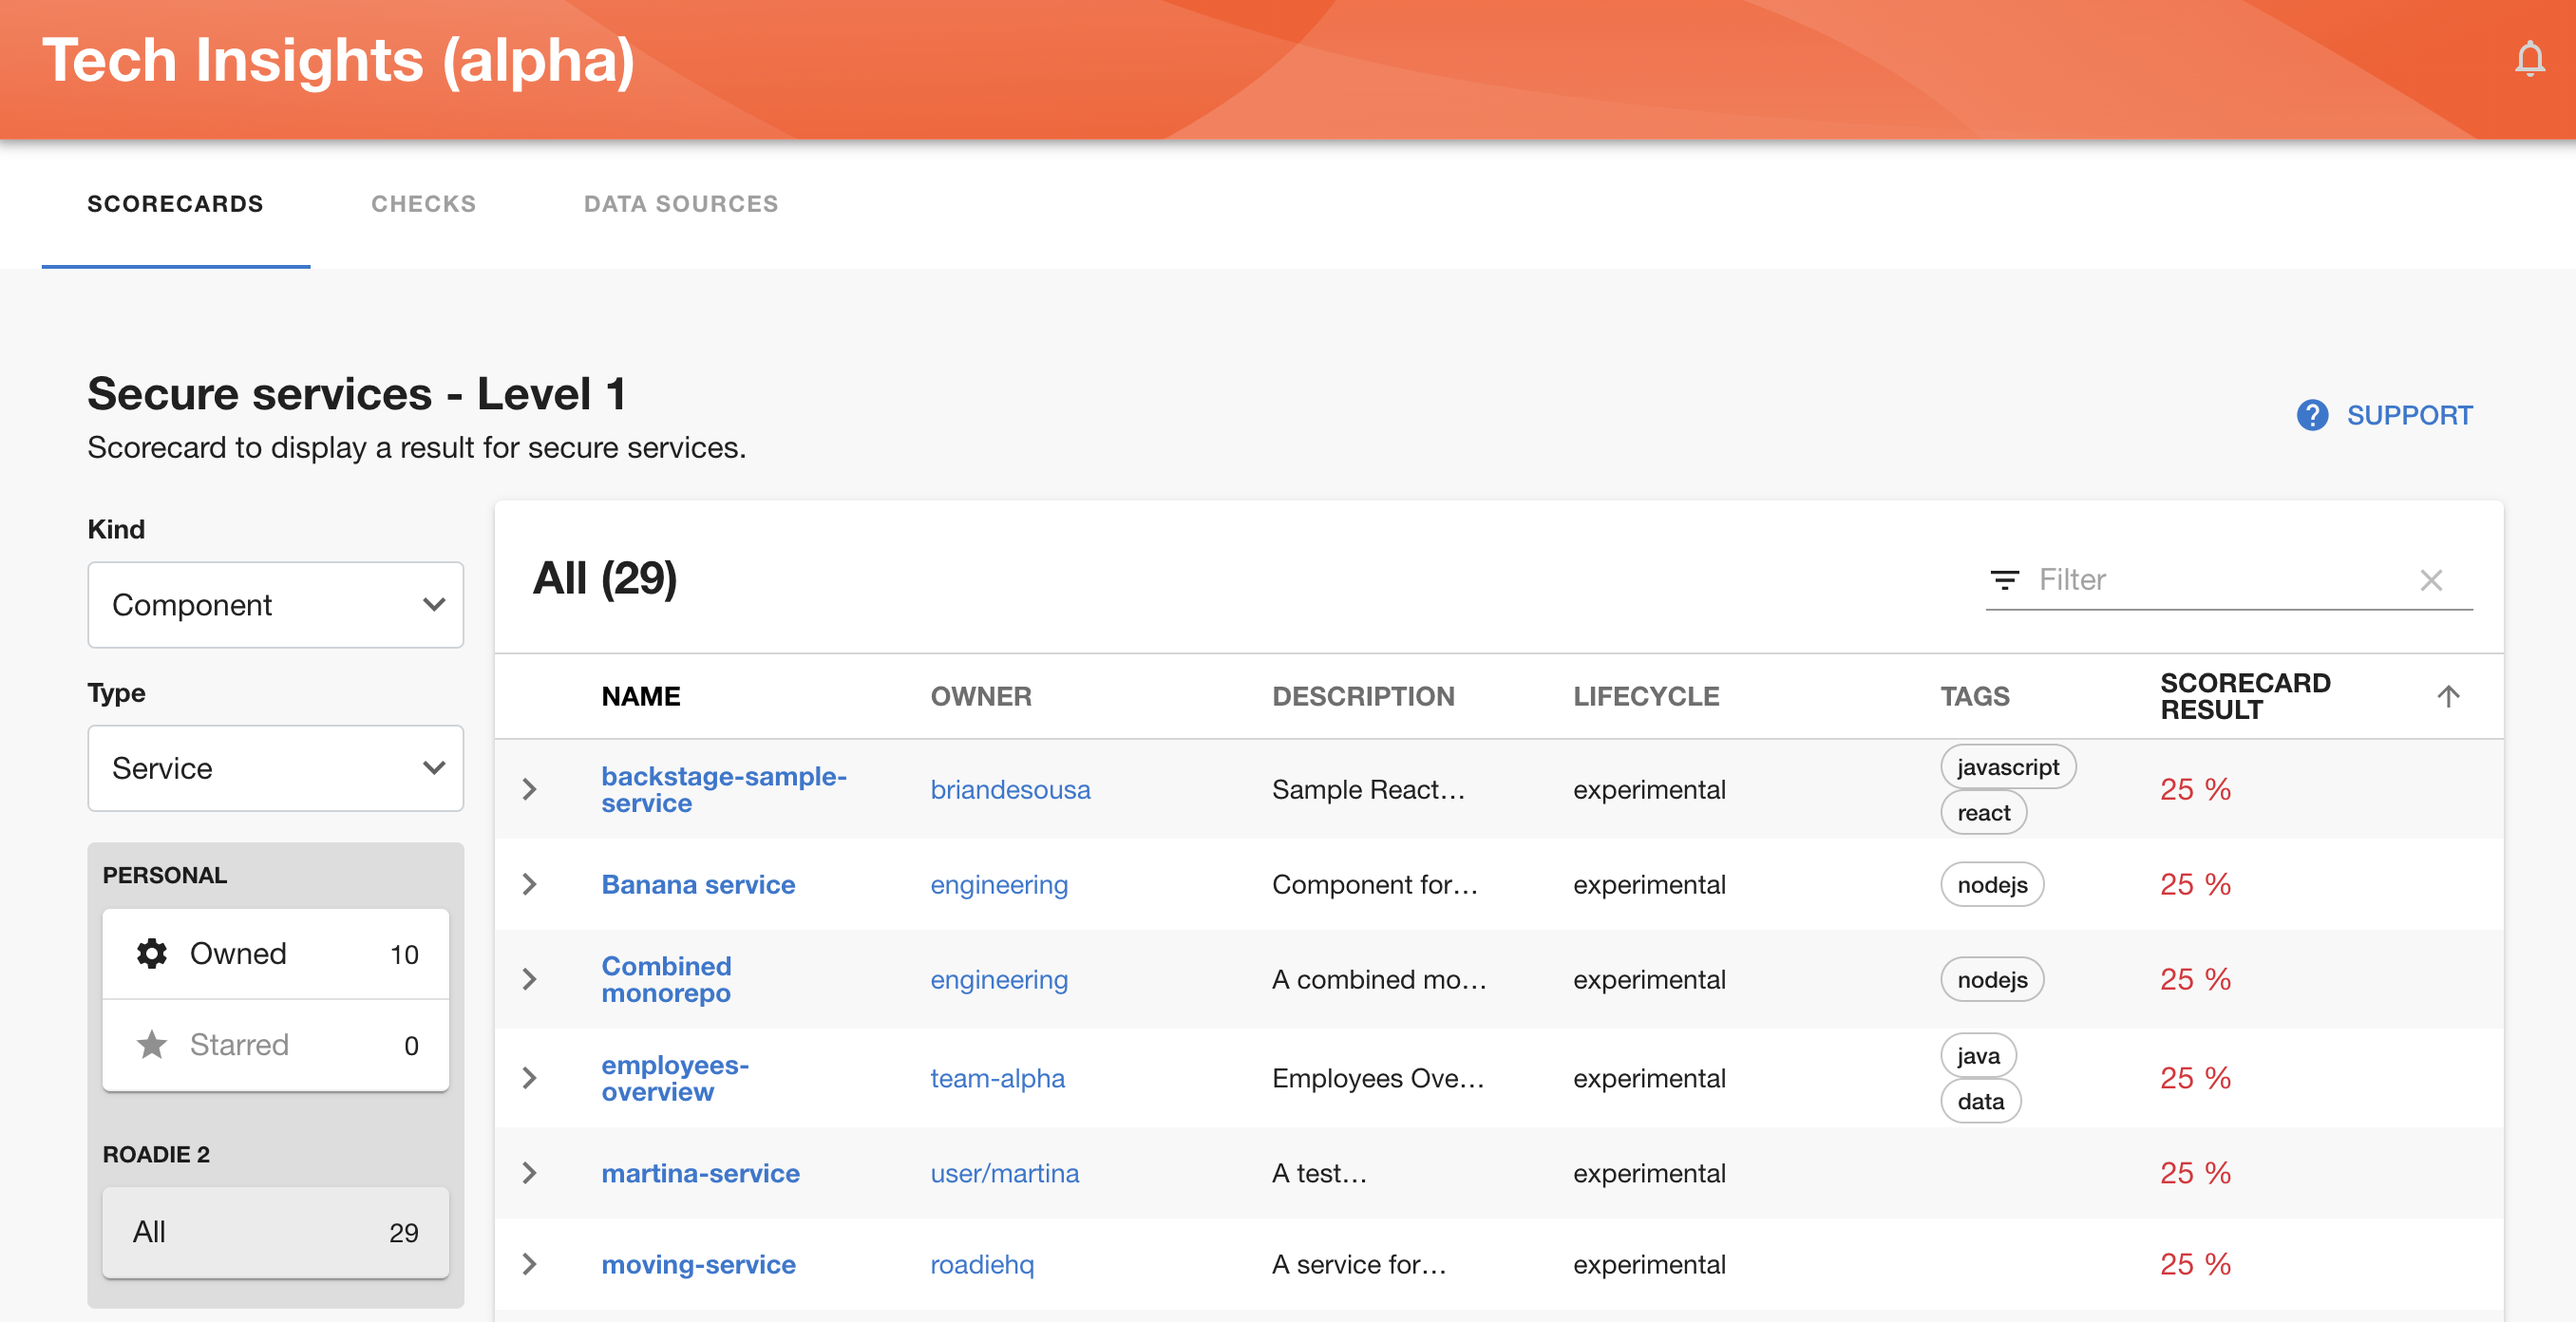
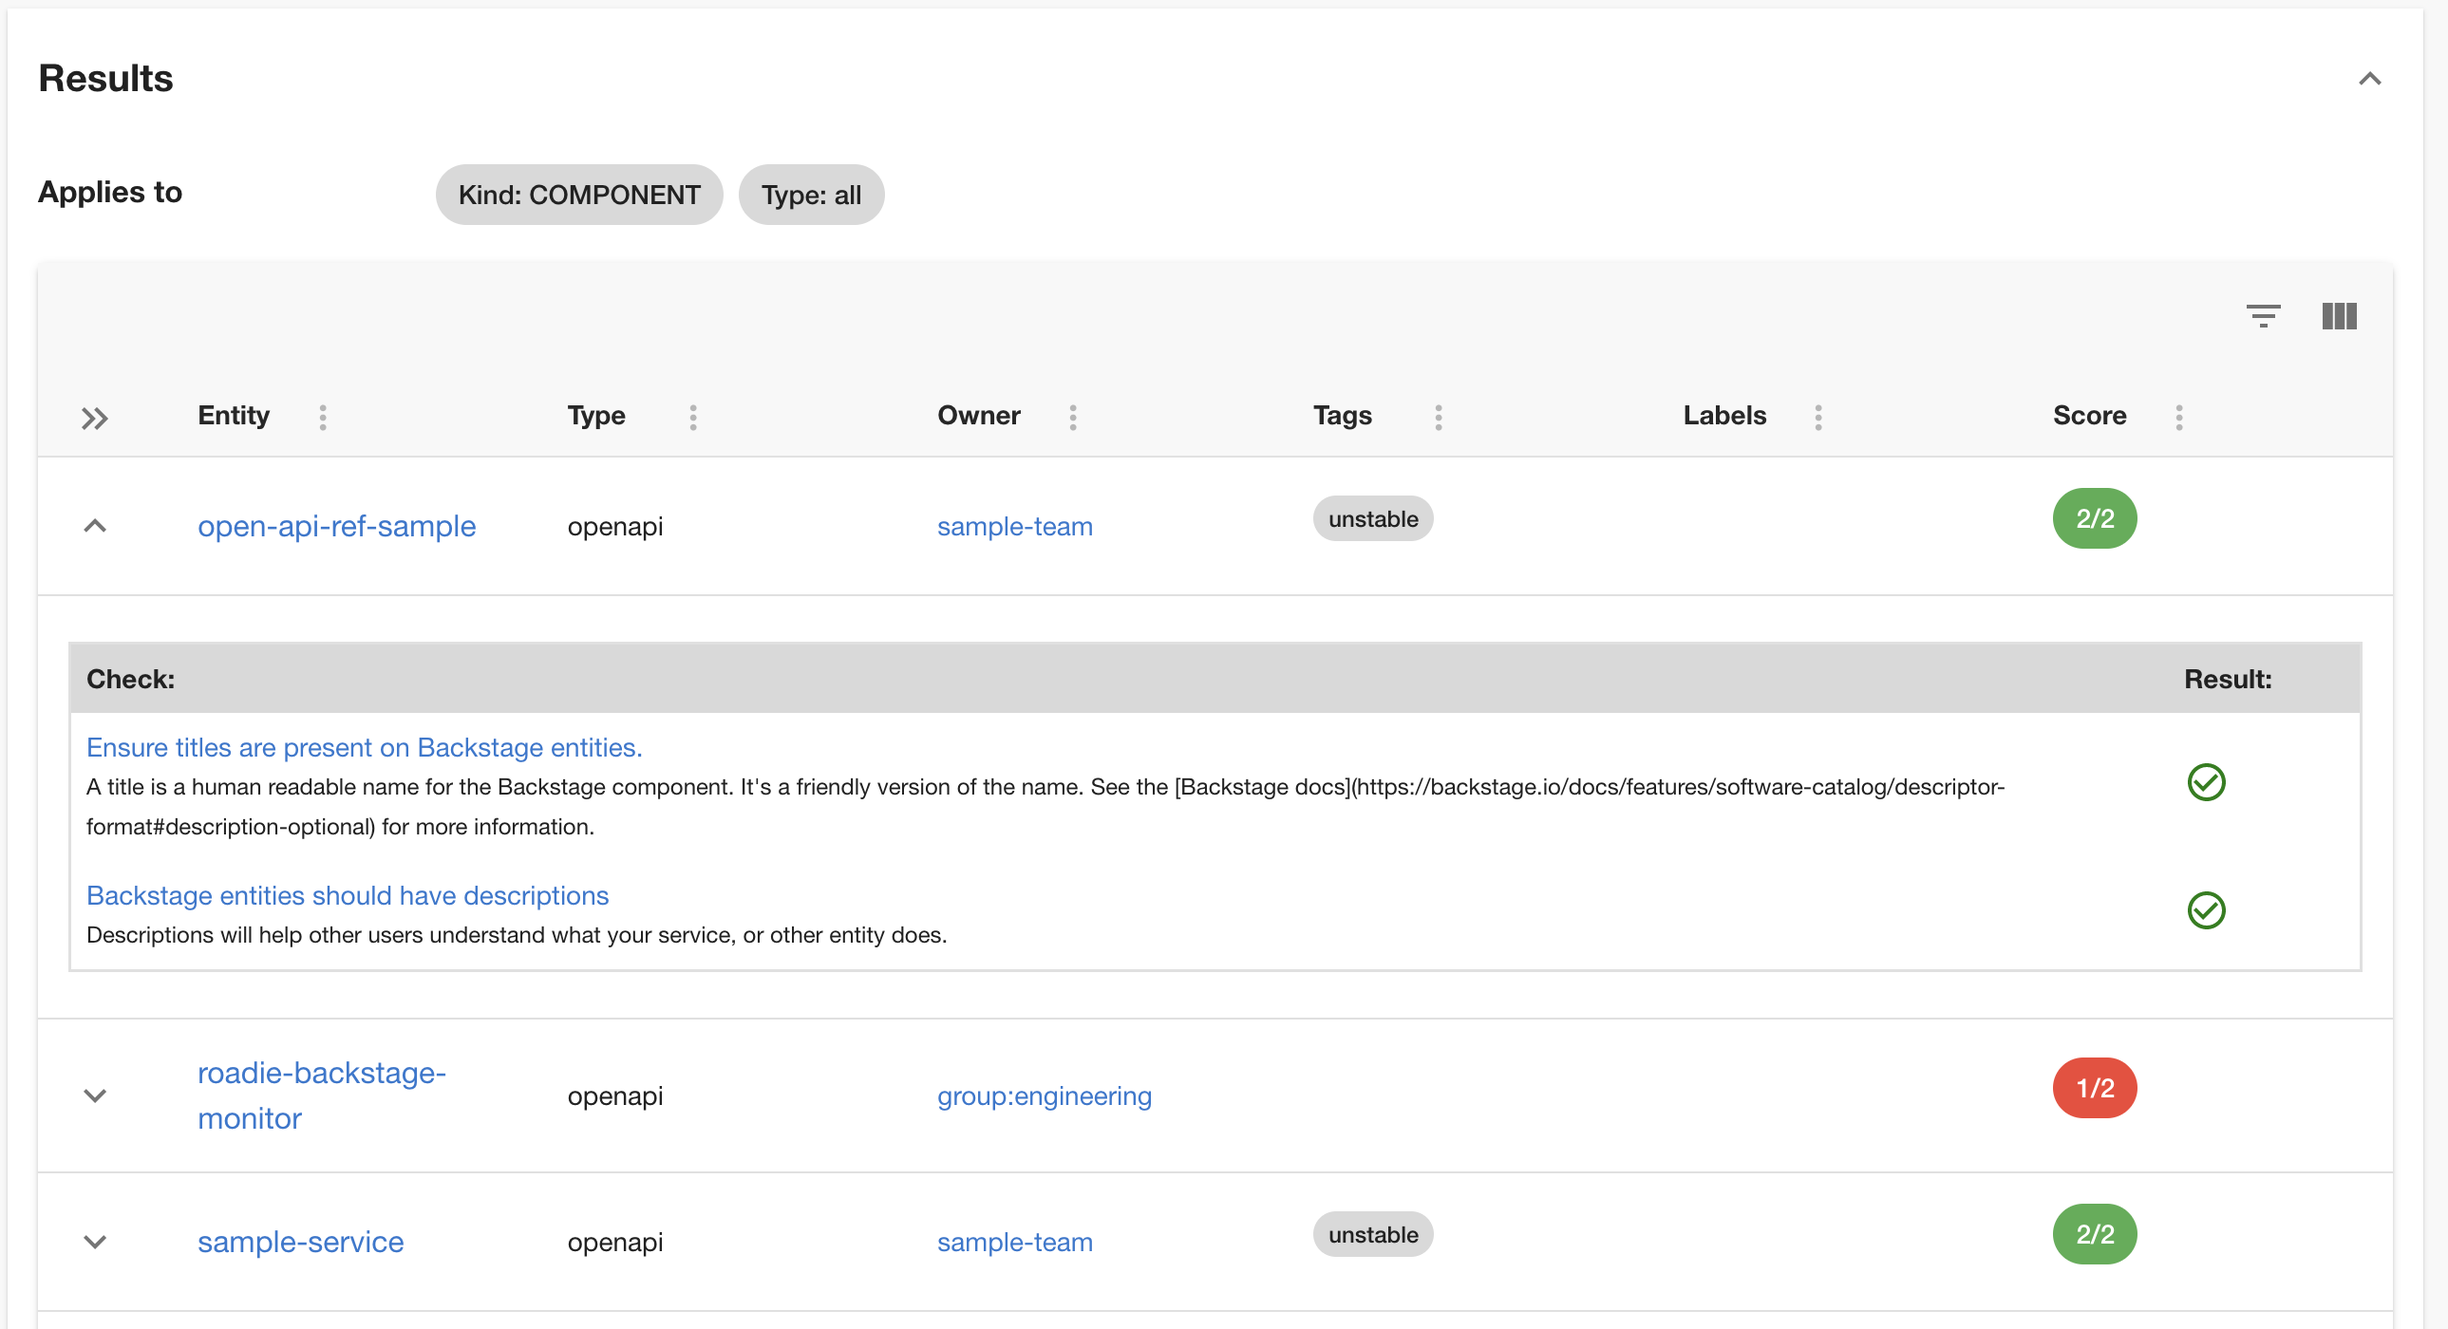
Update scorecards

diff --git a/content/docs/tech-insights/scorecards/index.md b/content/docs/tech-insights/scorecards/index.md
@@ -14,9 +14,11 @@ In this page you will get an overview of all existing Scorecards, but also have 
 
 ![Scorecard overview](./scorecard-overview.png)
 
-Clicking the title of the scorecard will lead to scorecard results in Backstage catalog components.
+Clicking the title of the scorecard will lead to scorecard details and results for catalog components.
 
-![Scorecard catalog](./scorecard-result.png)
+![Scorecard details](./scorecard-details.png)
+
+![Scorecard results](./scorecard-result.png)
 
 ### Adding a Scorecard
 
